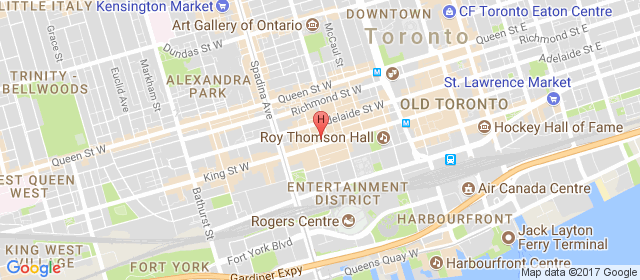
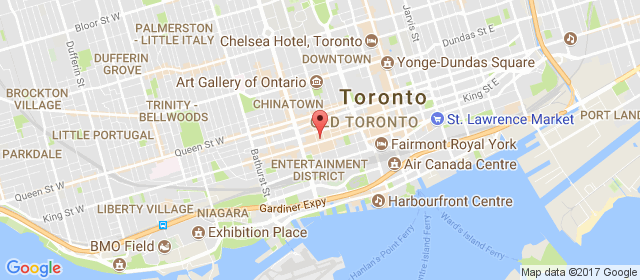
Added link to map and 'Book Your Stay' button
Improved layout of map with link to Google Maps.  Also, the 'Book Your
Stay' button now links to Hyatt's reservation system for our event.

diff --git a/index.html b/index.html
@@ -55,7 +55,7 @@
 
 <header id="site-header" class="site-header valign-center">
     <div class="intro">
-        <h2>March 26 &amp; 27, 2018 / Hyatt Regency Toronto</h2>
+        <h2>March 26&nbsp;&amp;&nbsp;27,&nbsp;2018 / Hyatt&nbsp;Regency&nbsp;Toronto</h2>
         <h1>Regional Scrum&nbsp;Gathering<sup>®</sup> Canada</h1>
         <a class="btn btn-white" style="margin-bottom:2px;" href="//scrumgathering-canada.typeform.com/to/V7Cvxi">Early Bird Registration</a>
         <a class="btn btn-white" style="margin-bottom:2px;" href="//scrumgathering-canada.typeform.com/to/rjt6Uh">Session Proposals</a>
@@ -896,15 +896,13 @@
                 <a class="venue-box"></a>
             </div>
             <div class="col-sm-6">
-                <ul class="list-arrow-right">
-                    <li><a href="//aws.passkey.com/e/49270438" target="_blank">Book your stay</a></li>
-                </ul>
-                <p>This is where the action is!  Networking opportunities are around every corner and in every elevator.  Save time getting to &amp; from sessions, and enjoy the convenience of going back to your room to relax or process your inbox.</p>
+                <p>This is where the action is!  Networking opportunities are around every corner and in every elevator.  Save time getting to &amp; from sessions and enjoy the convenience of going back to your room to relax.</p>
                 <p>We have negotiated with Hyatt Regency Toronto to provide you the best value &amp; service during your stay — be sure to tell them you're with Regional Scrum Gathering® Canada.</p>
             </div>
         </div>
         <div class="row">
             <div class="col-sm-6">
+                <a class="btn btn-black" style="margin-bottom:1em;" href="//aws.passkey.com/e/49270438" target="_blank">Book Your Stay</a>
                 <ul class="list-arrow-right">
                     <li>Hyatt Regency Toronto, 370 King St W, Toronto</li>
                     <li>Minutes from Eaton Centre &amp; Dundas Square</li>
@@ -915,8 +913,8 @@
                 </ul>
             </div>
             <div class="col-sm-6" id="map">
-                <img alt="Hyatt Regency Toronto, 370 King St W, Toronto" class="img-responsive" src="https://maps.googleapis.com/maps/api/staticmap?center=Hyatt Regency Toronto, Toronto, ON&amp;zoom=14&amp;size=1024x280&amp;key=AIzaSyDO7_A_MkiznwJz7X9bAjAenN_SAyPXIJE&amp;markers=size:mid|label:H|370 King St W, Toronto, ON M5V 1J9">
-<!-- <img alt="Hyatt Regency Toronto, 370 King St W, Toronto" class="img-responsive" src="../images/map.png"> -->
+                <!-- <a href="//goo.gl/maps/m4jfTVpoD7F2" target="_blank"><img alt="Hyatt Regency Toronto, 370 King St W, Toronto" class="img-responsive" src="https://maps.googleapis.com/maps/api/staticmap?center=Hyatt Regency Toronto, Toronto, ON&amp;zoom=13&amp;size=1024x280&amp;key=AIzaSyDO7_A_MkiznwJz7X9bAjAenN_SAyPXIJE&amp;markers=size:mid|370 King St W, Toronto, ON M5V 1J9"></a> -->
+                <a href="//goo.gl/maps/m4jfTVpoD7F2" target="_blank"><img alt="Hyatt Regency Toronto, 370 King St W, Toronto" class="img-responsive" src="../images/map.png"></a>
             </div>
             <div class="col-sm-2 hide">
                 <address>
